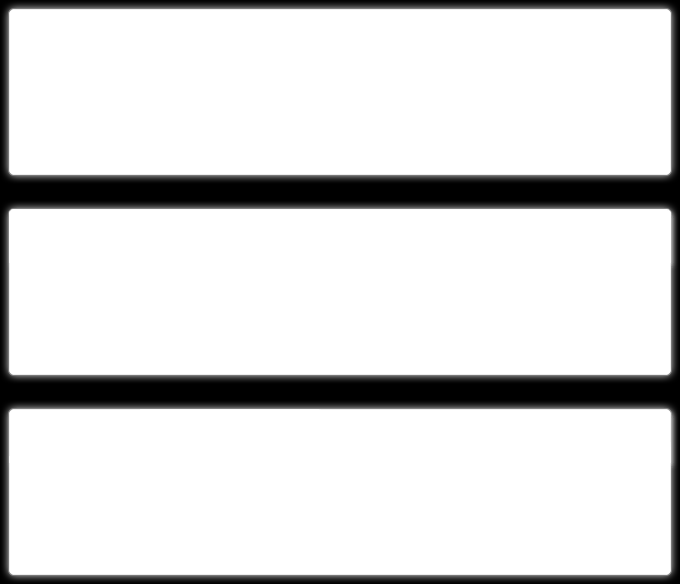
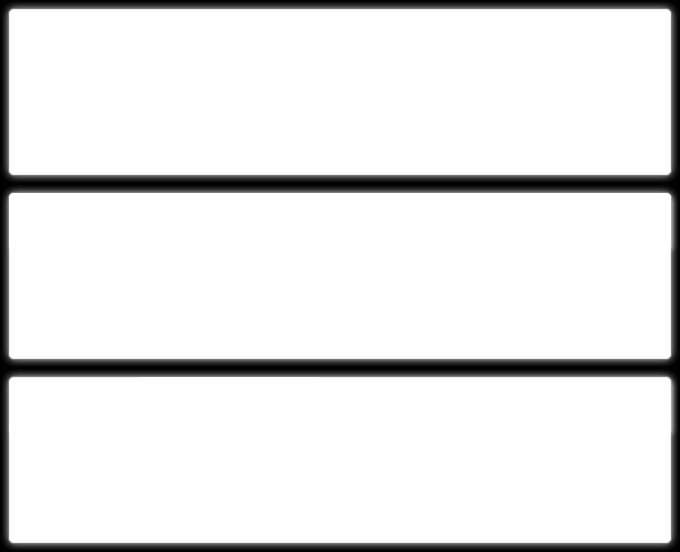
Correctly show the top bar.

Changed region(s): [[0.0, 0.2772, 1.0, 0.3696], [0.0, 0.6159, 1.0, 0.7083]]

diff --git a/real_index.html b/real_index.html
@@ -51,7 +51,7 @@
 				<td>
 					<div id ="links">
 						<a href="portfolio"><img data-fallback="images/portfolio-bar.png" data-image="images/portfolio-bars.jpg" data-mask="images/portfolio-mask.png" id="portfolio-bar" class="bar-image" data-height="184"></a>
-						<a href="http://blog.diekisdreamings.com"><img src="images/blog-bar.png" id="blog-bar" class="bar-image"></a>
+						<a href="http://blog.diekisdreamings.com"><img data-fallback="images/portfolio-bar.png" data-image="images/portfolio-bars.jpg" data-mask="images/portfolio-mask.png" id="portfolio-bar" class="bar-image" data-height="184" data-offset-y="></a>
 						<a href="resources"><img src="images/resources-bar.png" id="resources-bar" class="bar-image"></a>
 					</div>
 				</td>
